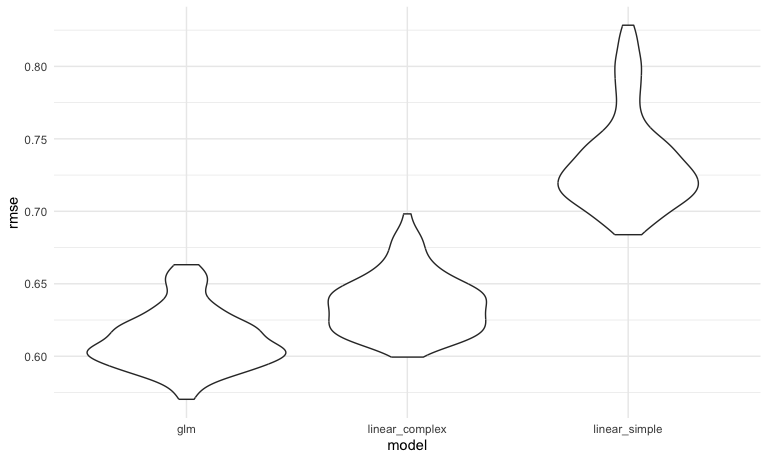
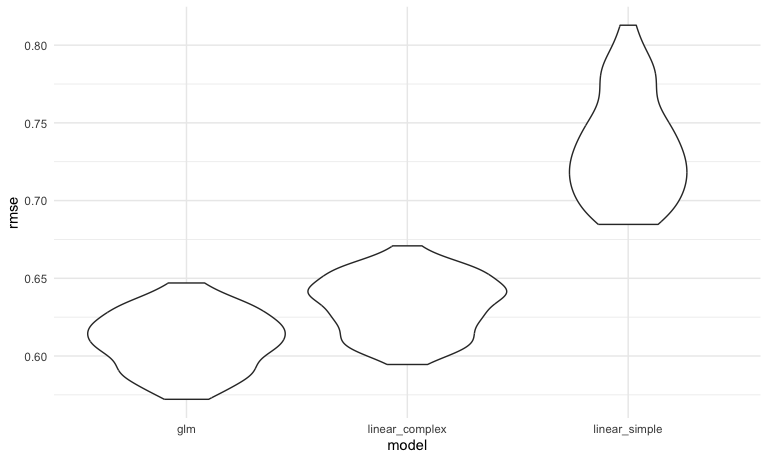
adding summary table

diff --git a/p8105_hw6_sc5826.md b/p8105_hw6_sc5826.md
@@ -212,7 +212,7 @@ weather_df_bootstrapped_samples |>
 <img src="p8105_hw6_sc5826_files/figure-gfm/unnamed-chunk-7-2.png" width="90%" />
 
 β1 appears normally distributed around 1.017. β2 also appears normally
-distributed around -0.0058.
+distributed around -0.0057.
 
 ``` r
 weather_df_bootstrapped_samples |> 
@@ -232,8 +232,8 @@ weather_df_bootstrapped_samples |>
 
 | estimate   |   ci.lower |   ci.upper |
 |:-----------|-----------:|-----------:|
-| beta_1_hat |  1.0060013 |  1.0283280 |
-| beta_2_hat | -0.0081414 | -0.0036789 |
+| beta_1_hat |  1.0057928 |  1.0278618 |
+| beta_2_hat | -0.0081436 | -0.0036662 |
 
 #### Problem 3
 
@@ -485,3 +485,9 @@ the second (more complex) linear model, which takes into account several
 interactions. The RMSE for the simple linear model is much higher
 compared to the other two. The mean RMSE from the cross vaidation are
 summarized in the table below:
+
+| model          | mean_RMSE |
+|:---------------|----------:|
+| glm            |     0.610 |
+| linear_complex |     0.633 |
+| linear_simple  |     0.734 |
